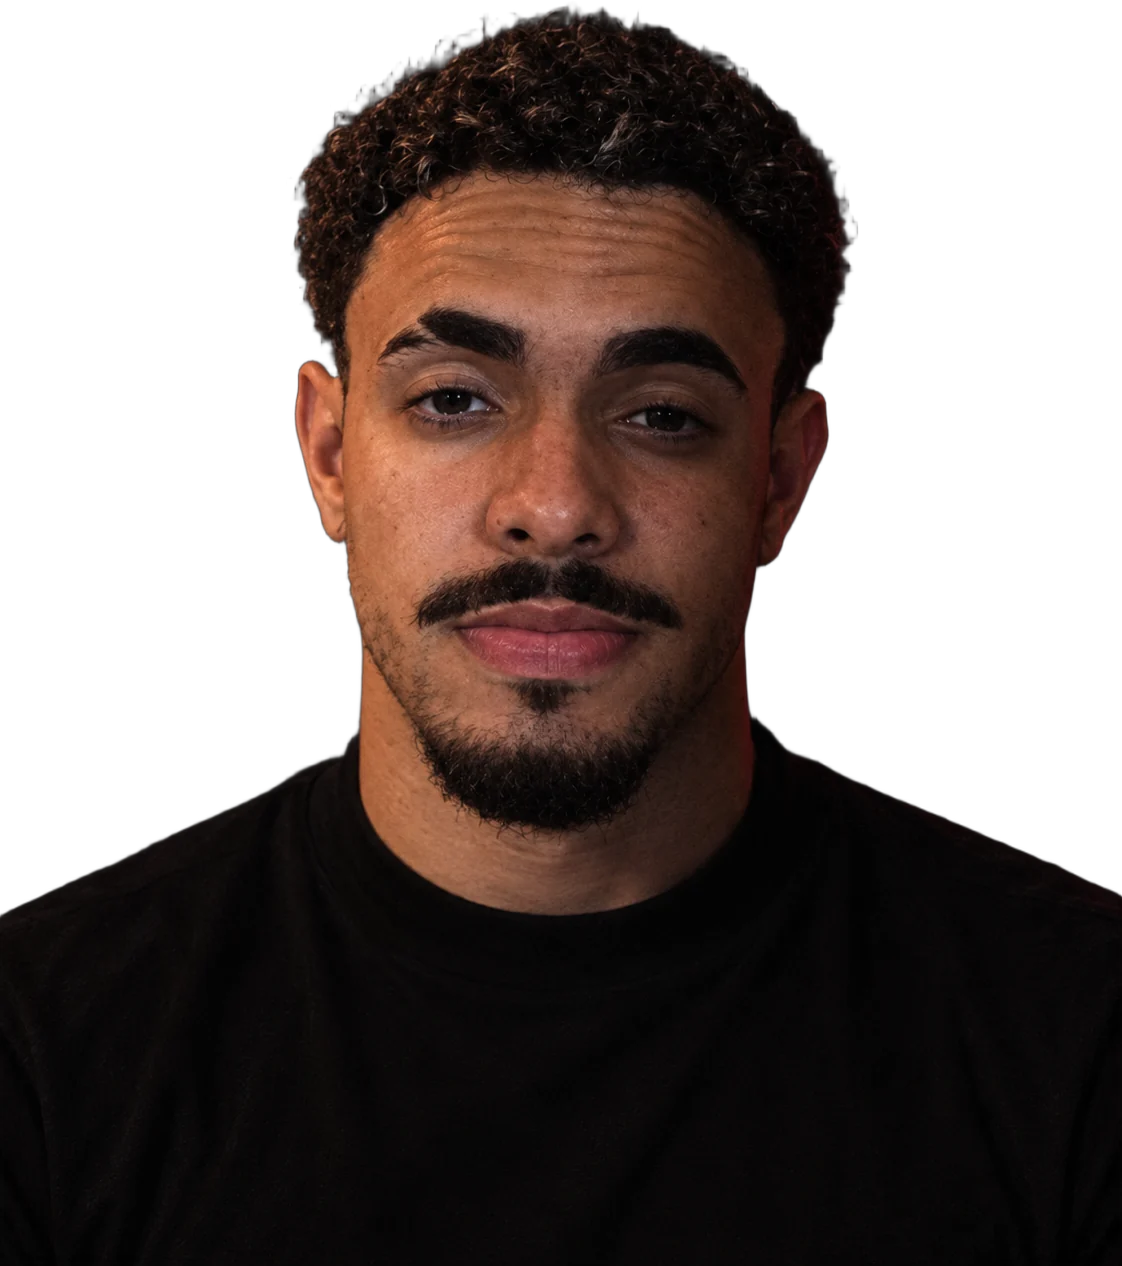
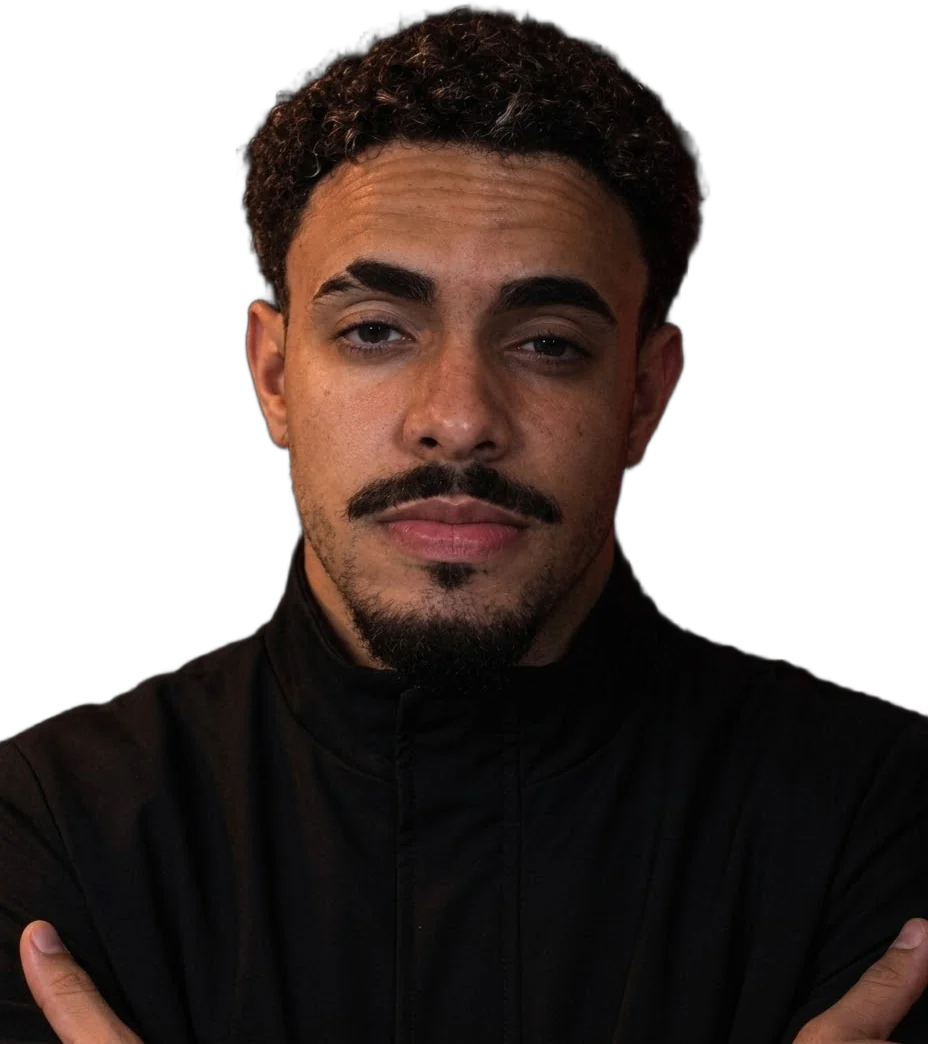
Teste: terceira foto no hero (braços cruzados)
A foto do teste anterior fica em assets/guilherme-v2.* e assets/og-v2.jpg.

Claude-Session: https://claude.ai/code/session_011vhqJecGZSdnfSJHLURew9

diff --git a/index.html b/index.html
@@ -91,7 +91,7 @@
       <figure class="hero-photo">
         <picture>
           <source srcset="/assets/guilherme.webp" type="image/webp">
-          <img src="/assets/guilherme.png" alt="Foto de Guilherme Ferreira" width="1122" height="1266" fetchpriority="high">
+          <img src="/assets/guilherme.png" alt="Foto de Guilherme Ferreira" width="928" height="1044" fetchpriority="high">
         </picture>
       </figure>
 
